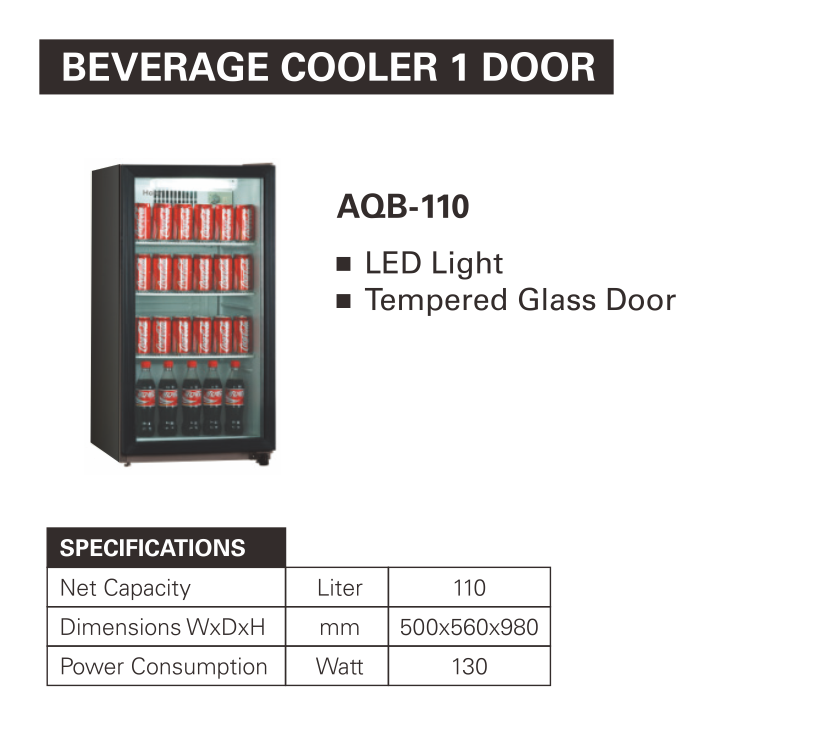
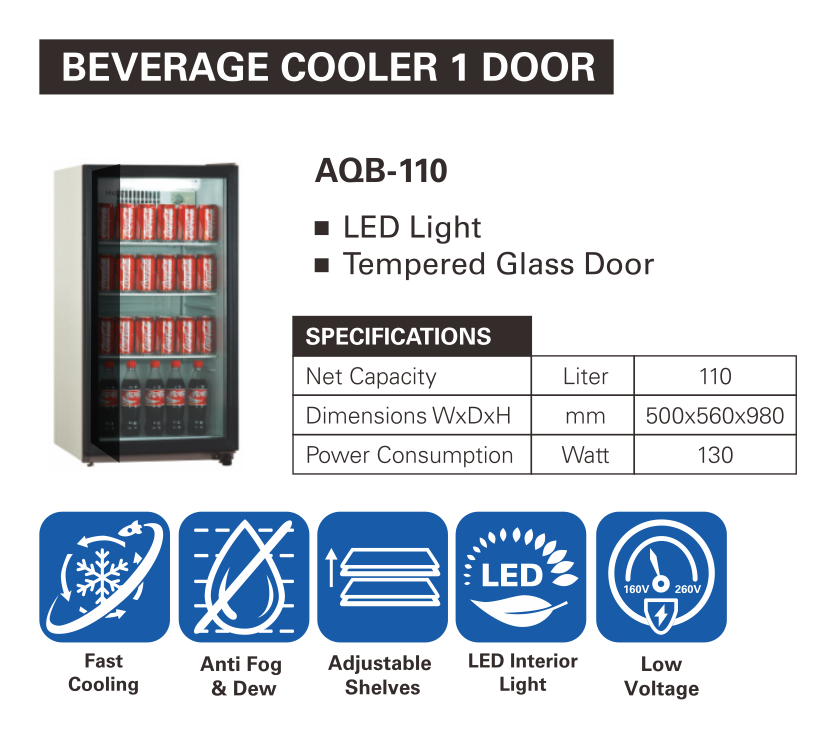
assets

diff --git a/public/resources/views/products.blade.php b/public/resources/views/products.blade.php
@@ -60,7 +60,14 @@
     <div class="">
       <img class="mb-4 text-center" src="{{asset('img/HEADER.png')}}" alt="" style="width: 100%;">
     </div>
-	@if(File::exists('img/PRODUCTS/'.$type.'/'.$code.'-1.png') and File::exists('img/PRODUCTS/'.$type.'/'.$code.'-2.png'))
+	@if(File::exists('img/PRODUCTS/'.$type.'/'.$code.'.png') and File::exists('img/PRODUCTS/'.$type.'/FEATURES.png'))
+  <div class="col-md-12">
+    <img class="img-fluid" src="{{asset('img/PRODUCTS/'.$type.'/'.$code.'.png')}}">
+  </div>
+  <div class="col-md-12">
+    <img class="img-fluid" src="{{asset('img/PRODUCTS/'.$type.'/FEATURES.png')}}">
+  </div>
+  @elseif(File::exists('img/PRODUCTS/'.$type.'/'.$code.'-1.png') and File::exists('img/PRODUCTS/'.$type.'/'.$code.'-2.png'))
   <div class="col-md-12">
     <img class="img-fluid" src="{{asset('img/PRODUCTS/'.$type.'/'.$code.'-1.png')}}">
   </div>

diff --git a/public/config/app.php b/public/config/app.php
@@ -67,7 +67,7 @@ return [
     |
     */
 
-    'timezone' => 'UTC',
+    'timezone' => 'Asia/Makassar',
 
     /*
     |--------------------------------------------------------------------------
